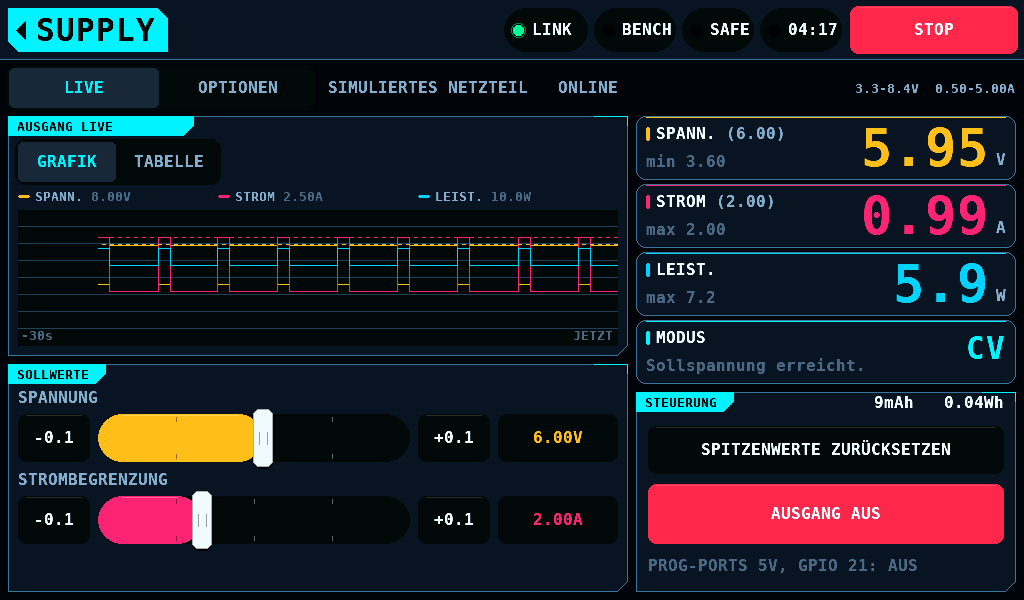
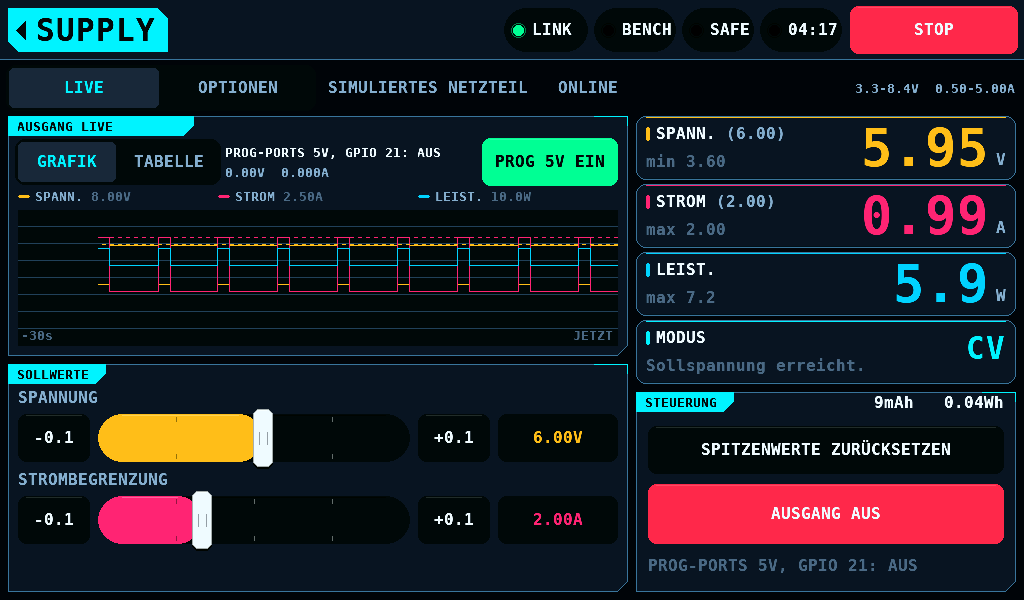
Document the PROG 5V box and test its rules at the edges
Safety, Carrier, Screens and the help pages in EN and DE describe the box,
its alerts and the SAFE or ARMED rule it shares with OUTPUT ON. Renders
SERVO and the KST programmer on the carrier. A tap released after a port
took the supply asks nothing.

Changed region(s): [[0.4688, 0.21, 0.625, 0.33], [0.2188, 0.24, 0.4375, 0.3]]

diff --git a/shared/ui/prog5v_box.c b/shared/ui/prog5v_box.c
@@ -24,9 +24,9 @@ static atomic_uint s_state = ATOMIC_VAR_INIT((unsigned)PROG5V_HELD_NONE);
 /** @brief bit 31 a reading, mV in bits 16 to 30, mA as int16 in 0 to 15. */
 static atomic_uint s_read;
 
-/** @brief What the boxes asked and not yet polled, and who switched the
- *         supply on.  app_main only. */
+/** @brief What the boxes asked and not yet polled.  app_main only. */
 static prog5v_cmd_t s_cmd;
+/** @brief The screen whose box switched the supply on.  app_main only. */
 static prog5v_by_t  s_owner;
 
 void prog5v_box_publish(uint8_t state, uint8_t pin, uint8_t held_port)
@@ -136,11 +136,11 @@ void prog5v_box_release(prog5v_box_t *b, int x, int y, bool tap)
     if (b == NULL || !b->pressed) {
         return;
     }
-    const bool fired = ui_hold_end(&b->hold);
+    (void)ui_hold_end(&b->hold);
     /* Off is a tap; on is a hold that has sent its command by the time the
-     * finger lifts.  Which one is the press's: an ON reported during a
-     * hold does not make its release an OFF. */
-    if (tap && b->press_on && prog5v_box_on() && !fired
+     * finger lifts.  Which one is the press's (press_on): an ON reported
+     * during a hold does not make its release an OFF. */
+    if (tap && b->press_on && prog5v_box_on()
         && held() == PROG5V_HELD_NONE
         && gfx_rect_contains(prog5v_box_button(b), x, y)) {
         post(false, b->by);

diff --git a/firmware/panel/main/panel.h b/firmware/panel/main/panel.h
@@ -926,8 +926,9 @@ typedef struct {
     /** And how many times the supply's output had been asked off; see
      *  s_supply_offs. */
     uint32_t         supply_offs;
-    /** And how many times the ports' 5V had been asked off (s_prog5v_offs):
-     *  an ON queued before an OFF is not applied after it. */
+    /** @brief And how many times the ports' 5V had been asked off
+     *  (s_prog5v_offs): an ON queued before an OFF is not applied after
+     *  it. */
     uint32_t         prog5v_offs;
     /** And how many edits the PD mini's wiring had had (s_pdmini_edits):
      *  an ON queued before an edit on SETUP is not applied after it, even
@@ -990,10 +991,11 @@ extern atomic_uint s_supply_ack;
 /** @brief The ports' 5V asked off from the PROG 5V box, counted; render
  *         side writes, control task reads. */
 extern atomic_uint s_prog5v_offs;
-/** @brief The PROG 5V ONs applied, numbered (control task), and the newest
- *         a whole frame has seen on (render side): see
+/** @brief The PROG 5V ONs applied, numbered; control task writes, see
  *         prog_supply_watch_service(). */
 extern atomic_uint s_psup_gen;
+/** @brief The newest PROG 5V ON a whole frame has seen on; render side
+ *         writes, see prog_supply_watch_service(). */
 extern atomic_uint s_psup_ack;
 extern atomic_bool s_supply_live;
 extern atomic_uint s_supply_ons_sent;

diff --git a/shared/ui/servo_screen_int.h b/shared/ui/servo_screen_int.h
@@ -482,12 +482,6 @@ typedef struct {
      * the output going off shows here at once.
      */
     gfx_rect_t out_btn;
-    /* The programming ports' own 5V on a board that switches it (the
-     * rbmod carrier): the PROG 5V box in the power plot's place
-     * (prog5v_box.h), one contact at a time. */
-    prog5v_box_t p5;
-    bool         p5_down;
-    int          p5_id;
     ui_hold_t  out_hold;
     bool       out_down;
     int        out_id;
@@ -496,6 +490,14 @@ typedef struct {
     float      sup_v, sup_i;  /**< the set points as last seen           */
     uint32_t   sup_rev;
     uint32_t   drawn_sup[2];
+    /** @brief The programming ports' own 5V on a board that switches it
+     *  (the rbmod carrier): the PROG 5V box in the power plot's place
+     *  (prog5v_box.h). */
+    prog5v_box_t p5;
+    /** @brief A contact is down on the box's button. */
+    bool         p5_down;
+    /** @brief That contact's id: one contact at a time. */
+    int          p5_id;
     /* A set point waiting for APPLY: typed while the output is live, or a
      * voltage raised past a standard servo's rating (hv), which takes the
      * two-second hold the profile warning takes.  OUTPUT ON with a set

diff --git a/test/host/test_prog5v_box.c b/test/host/test_prog5v_box.c
@@ -142,6 +142,13 @@ TEST_CASE(off_is_a_tap_that_lifts_on_the_button)
     CHECK(prog5v_box_press(&b));
     prog5v_box_release(&b, bx(), by_(), false);
     CHECK(!prog5v_box_poll_cmd(NULL));
+    /* A port that took the supply after the last tick: the tap asks
+     * nothing, the session's own LEAVE switches it. */
+    CHECK(prog5v_box_press(&b));
+    prog5v_box_publish(ST_ON, 21u, 1u);
+    prog5v_box_release(&b, bx(), by_(), true);
+    CHECK(!prog5v_box_poll_cmd(NULL));
+    prog5v_box_publish(ST_ON, 21u, (uint8_t)PROG5V_HELD_NONE);
     /* An OFF asked stands over an ON in the same poll. */
     CHECK(prog5v_box_press(&b));
     prog5v_box_release(&b, bx(), by_(), true);

diff --git a/firmware/panel/main/main.c b/firmware/panel/main/main.c
@@ -391,10 +391,12 @@ atomic_uint s_supply_trip_ms;
  * supply_watch_service().
  */
 atomic_uint s_supply_ack;
-/* The PROG 5V box's OFFs, counted as s_supply_offs counts the supply's,
- * and its ONs acknowledged as s_supply_ack does (panel.h). */
+/** @brief The PROG 5V box's OFFs, counted as s_supply_offs counts the
+ *         supply's (panel.h). */
 atomic_uint s_prog5v_offs;
+/** @brief The PROG 5V ONs applied, numbered (panel.h). */
 atomic_uint s_psup_gen;
+/** @brief The newest PROG 5V ON a whole frame has seen on (panel.h). */
 atomic_uint s_psup_ack;
 /*
  * Whether the output is on, stored by the control task the moment it

diff --git a/shared/ui/supply_screen_int.h b/shared/ui/supply_screen_int.h
@@ -143,7 +143,9 @@ _Static_assert(OUT_H >= UI_TAP_MIN, "OUTPUT is a finger tall");
  *        head, ending where the legend starts.
  */
 #define P5_X      (TAB_X + TAB_W + 8)
+/** @brief The box's top: PROG5V_BOX_H over the legend. */
 #define P5_Y      (LEG_Y - PROG5V_BOX_H)
+/** @brief The box's width, up to the card's inner edge. */
 #define P5_W      (LEFT_X + LEFT_W - INNER - P5_X)
 _Static_assert(P5_W >= PROG5V_BOX_MIN_W, "the PROG 5V box fits the head");
 _Static_assert(P5_Y >= UP_Y + TITLE_H, "the PROG 5V box is under the title");

diff --git a/firmware/panel/main/panel_supply.c b/firmware/panel/main/panel_supply.c
@@ -108,8 +108,8 @@ uint32_t              s_supply_step_ms;
  */
 static arm_watch_t    s_supply_watch;
 uint32_t              s_supply_gen;
-/* The PROG 5V box's ON in flight, watched the same way (s_psup_gen,
- * s_psup_ack). */
+/** @brief The PROG 5V box's ON in flight, watched the same way (s_psup_gen,
+ *         s_psup_ack). */
 static arm_watch_t    s_psup_watch;
 
 /*

diff --git a/STATUS.md b/STATUS.md
@@ -124,7 +124,7 @@ is taken in a gap ahead of the save that needs it.
 | CAN drivers (TWAI on the panel, XL2515 on the IOmcu) and the echo self-test | built |
 | Bring-up diagnosis, both ends' counters compared | built |
 | Heartbeat generator and monitor | built and driven at both ends; the monostable is not fitted |
-| Errors | built: an error switches every output off and the bench to SAFE ([Safety, Errors](docs/Safety.md#errors)). The rule is `shared/safety/error_stop.c`, host-tested in `test_error_stop`; the supply link's errors are `supply_link_ev_error()`, an INA3221 limit passed `sense_limit_link_take_trip()` (`test_sense_limit_link`); a programming session's faults `kst_link_outcome_fault()` and `hitec_prog_ses_fault()`, and the OFF written whatever the panel reads (`supply_link_cut()`), in `test_error_stop`; from link 4.31 the IOmcu holds the OFF of a supply a programming port holds for the port's write, 10000ms at most, and refuses the port's ON after it ([Safety, A programming port's supply](docs/Safety.md#a-programming-ports-supply); `test_supply_hold`, `test_prog_supply`, `test_prog_supply_link`, `test_kst_port_cut`, `test_hitec_port_cut`); the automatic test's and the limit run's error ends ask SAFE (`servo_test_abort_error()`, `servo_limrun_why_error()`; `test_servo_error_safe`, `test_servo_limrun_error`). The panel's error sites in `panel_supply.c`, `panel_limit.c`, `panel_log.c` and `panel_services.c` apply the rule through `shared/safety/error_sites.c` and `kst_link_faults()`, host-tested in `test_error_sites` with each finder: DISARM for an ARMED bench or one on its way, the supply off and the OFF written to an IOmcu of 4.31, a PD mini a port holds left to the port by an older IOmcu through every error but the panel's trip, the module's protection and a sagging input (`error_sites_keeps()`; the hold is the SUPPLY page's `LINK_SP_PORT` as last read, `supply_link_port_holds()`, also in `test_supply_keep`, not a session with a port, with a port that takes or lets go of the supply between two reads; an ON the page refuses under a port's ON through `supply_link_keep()`, also in `test_supply_keep`), the model switched off whoever holds a port, a reading fault the port keeps acted on once while it stands, a failed final commit or close of the run log or the automatic test's CSV counted once a run (`error_card_close_edge()`), OUTPUT OFF and STOP TEST leaving the bench ARMED; the one-line calls into it in those files are not host-tested. The IOmcu switches a PD mini left on off before the rest of its start-up (`supply_boot_off()`; the rule `supply_page_boot_owed()` and `pdmini_hurry()` host-tested in `test_supply_boot` against a modelled module at each of the seven rates); the time on hardware is not measured |
+| Errors | built: an error switches every output off and the bench to SAFE ([Safety, Errors](docs/Safety.md#errors)). The rule is `shared/safety/error_stop.c`, host-tested in `test_error_stop`; the supply link's errors are `supply_link_ev_error()`, an INA3221 limit passed `sense_limit_link_take_trip()` (`test_sense_limit_link`); a programming session's faults `kst_link_outcome_fault()` and `hitec_prog_ses_fault()`, and the OFF written whatever the panel reads (`supply_link_cut()`), in `test_error_stop`; from link 4.31 the IOmcu holds the OFF of a supply a programming port holds for the port's write, 10000ms at most, and refuses the port's ON after it ([Safety, A programming port's supply](docs/Safety.md#a-programming-ports-supply); `test_supply_hold`, `test_prog_supply`, `test_prog_supply_link`, `test_prog5v_box`, `test_kst_port_cut`, `test_hitec_port_cut`); the automatic test's and the limit run's error ends ask SAFE (`servo_test_abort_error()`, `servo_limrun_why_error()`; `test_servo_error_safe`, `test_servo_limrun_error`). The panel's error sites in `panel_supply.c`, `panel_limit.c`, `panel_log.c` and `panel_services.c` apply the rule through `shared/safety/error_sites.c` and `kst_link_faults()`, host-tested in `test_error_sites` with each finder: DISARM for an ARMED bench or one on its way, the supply off and the OFF written to an IOmcu of 4.31, a PD mini a port holds left to the port by an older IOmcu through every error but the panel's trip, the module's protection and a sagging input (`error_sites_keeps()`; the hold is the SUPPLY page's `LINK_SP_PORT` as last read, `supply_link_port_holds()`, also in `test_supply_keep`, not a session with a port, with a port that takes or lets go of the supply between two reads; an ON the page refuses under a port's ON through `supply_link_keep()`, also in `test_supply_keep`), the model switched off whoever holds a port, a reading fault the port keeps acted on once while it stands, a failed final commit or close of the run log or the automatic test's CSV counted once a run (`error_card_close_edge()`), OUTPUT OFF and STOP TEST leaving the bench ARMED; the one-line calls into it in those files are not host-tested. The IOmcu switches a PD mini left on off before the rest of its start-up (`supply_boot_off()`; the rule `supply_page_boot_owed()` and `pdmini_hurry()` host-tested in `test_supply_boot` against a modelled module at each of the seven rates); the time on hardware is not measured |
 | IOmcu firmware | answers the identity, status, control, bench and three output pages; fails safe at 200ms. The decision to switch to ARMED is `shared/safety/safety_gate.c`, called once a pass and at every CONTROL write and host-tested in `test_safety_gate` against a model of both main loops: an arm latch set at a start, on link silence, on a distrusted heartbeat and by a refused ARM, released by CLEAR alone. CHAN_CFG and OUTPUTS refuse a role, a throttle channel's range and a slot change while ARMED. It publishes what the ESC reports over extended DShot telemetry: speed, voltage, current, power and the ESC's own temperature. With an INA228 enabled on the SENSE page and answering, BENCH carries the INA228's voltage, current, power, peaks, charge and energy instead (see Current monitors). Core 0 runs the link and the outputs; core 1 runs the current monitors' bus and nothing else |
 | IOmcu firmware update over CAN | built and host-tested. The boot ROM's partition table holds slots A and B of 2036KiB; the panel writes the slot that is not running through UPDATE_CTL (0xF0) and UPDATE_DATA (0xF1) in 64-byte blocks with a CRC-16 each and a SHA-256 over the image, the IOmcu restarts into it on trial (TBYB, try before you buy), and the panel's BUY keeps it; without the BUY the boot ROM's 16.7s watchdog returns to the old image. The IOmcu refuses ARM for the whole session and writes flash only behind the store's gate. A session ends after 5s without a request to either update page, and a panel that finds one at its check ends it with ABORT. After the BUY the IOmcu erases the old slot's first sector, and owes the erase until it holds when it fails or the gate is shut. The panel carries the image when built with `RCBENCH_IOMCU_BIN`, checks the IOmcu's build by SHA-256 at link-up and offers the update on a question that takes the 2s hold. `test_link_update` runs both ends over the link layer against a simulated flash and boot ROM; `test_coproc_update_screen` the question and the progress; `test_upd_coproc` SETUP > UPDATES' IOmcu section, whose 2s hold starts the same update, also after a declined question. The transfer time is not measured; the bus time for the 0.18 image is 7.1 to 8.6s. An IOmcu loaded before the table takes one USB load of `rcbench-iomcu-install.uf2`. [Reference](docs/Link.md#firmware-update-over-the-link) |
 | Output drivers (PWM, PPM, DShot, bidirectional DShot) | built; the frame arithmetic, the group code, the reply sampler and the GPIO-to-PWM-slice fold are host-tested. No instrument has been on any output pin. [Reference](docs/DShot.md) |
@@ -223,10 +223,10 @@ build and so have no compile command; `tools/render_ui.py` builds the first
 with `-Werror`, and cppcheck reads both. The step over `firmware/` passes all 25. `docs.yml` and
 `release.yml` with the wait for CI have not run.
 
-The host suite is 360 binaries, one line per case: `test_gfx`, `test_gfx_faces`, `test_gfx_subpixel`, `test_gfx_clip`, `test_gfx_damage`, `test_gfx_turn`, `test_gfx_sprite`, `test_layout`, `test_touch_map`, `test_overlays`,
+The host suite is 361 binaries, one line per case: `test_gfx`, `test_gfx_faces`, `test_gfx_subpixel`, `test_gfx_clip`, `test_gfx_damage`, `test_gfx_turn`, `test_gfx_sprite`, `test_layout`, `test_touch_map`, `test_overlays`,
 `test_touch_merge`, `test_touch_merge_multi`, `test_inj_line_id`, `test_inj_emu`, `test_inj_multi`,
 `test_nav`, `test_nav_tiles`, `test_nav_alert`, `test_nav_mark`, `test_nav_contact`, `test_nav_drag`, `test_nav_stop`, `test_nav_bubble`, `test_widgets`, `test_workbench`, `test_prog_registry`, `test_keypad`, `test_keypad_sign`, `test_keypad_rows_setup`, `test_keypad_rows_stick`, `test_keypad_rows_motor`, `test_keypad_rows_supply`, `test_keypad_rows_servo`, `test_keypad_rows_kst`, `test_pinlist`, `test_bench`, `test_supply`,
-`test_supply_screen`, `test_supply_screen_tasks`, `test_supply_screen_home`, `test_supply_screen_draw`, `test_supply_layout`, `test_pdmini`,
+`test_supply_screen`, `test_supply_screen_tasks`, `test_supply_screen_home`, `test_supply_screen_draw`, `test_supply_layout`, `test_prog5v_box`, `test_pdmini`,
 `test_motor`, `test_motor_draw`, `test_motor_throttle`, `test_motor_arm`, `test_motor_workbench`, `test_motor_program`, `test_motor_layout`, `test_value_state`, `test_servo`, `test_servo_knob`, `test_servo_drag`, `test_servo_repaint`, `test_frame_work`, `test_servo_dial_sweep`, `test_servo_letgo`, `test_servo_curve`, `test_servo_supply`, `test_servo_run`, `test_servo_target`, `test_servo_rail`, `test_servo_meter`, `test_servo_settings`, `test_servo_trim_keypad`,
 `test_servo_test_panel`, `test_servo_error_safe`, `test_servo_limit_panel`, `test_servo_workbench`, `test_servo_arm`, `test_safe_press`,
 `test_analyser`, `test_prog_models`, `test_esc_stick_panel`, `test_esc_stick_panel_phases`, `test_esc_stick_panel_list`, `test_esc_stick_panel_steps`, `test_esc_stick_panel_makers`, `test_esc_stick_panel_hold`, `test_esc_stick_panel_touch`, `test_esc_stick_panel_home`, `test_esc_stick_panel_keypad`, `test_esc_stick_layout`, `test_balance`, `test_battery`, `test_instruments_layout`,
@@ -591,8 +591,8 @@ ctest runs one case more that is not a binary of the suite:
 Coverage floors: 94% overall, 85% for every file. `tools/coverage.py --check` fails on drift of the table
 below and of the figure in the two READMEs, and on a C file under `shared/`
 or a core file under `protocols/` that is in neither of its two lists, is not compiled, or has no counters.
-`render_ui.py --check` holds 666 committed screenshots to the current
-render, 333 in English and the same 333 in German, and `render_ui.py --fit`
+`render_ui.py --check` holds 670 committed screenshots to the current
+render, 335 in English and the same 335 in German, and `render_ui.py --fit`
 fails on a string that overflows where it is drawn, in either language,
 except an English overflow it lists as known (none listed). `image_slot.py`
 holds the panel image to the smaller of its two update slots.
@@ -936,7 +936,7 @@ _Generated by `tools/coverage.py`; CI runs `--check` and fails on drift._
 | The clock on the board | the NTP request and its console line are not measured on the board. The RTC timer counts the 32.768kHz crystal Y3; its drift is at most about 30ppm, measured over 65min. On the internal RC oscillator, the fallback, the drift is not a fixed figure: 584ppm over 2h04min in one run, under 15ppm over 1h51min in another. The boot line naming the crystal is not measured, nor the start-up time the crystal adds (about 183ms from ESP-IDF's counts); how long an answer takes is not measured beyond one bench log, 7.2s after the address. A cell in the board's RTC battery holder BAT1 keeps no time: the ESP32-P4 keeps its RTC timer on VBAT only from deep sleep, which the panel never enters |
 | Settings save disturbs the picture | `settings_save()` writes NVS while the panel scans. The scan-out reads PSRAM by DMA (direct memory access) with no bounce buffer, and the DSI host's interrupt runs during the write (`CONFIG_LCD_DSI_ISR_CACHE_SAFE`), so the picture is expected to stay; not measured | a photo of the home screen after a settings save and after a board drawing's keep, with the console's lines beside it |
 | Stick programming's beep timing | the engine, ESC STICK on MOTOR & ESC > PROGRAM and the simulated ESC are tested on the host only. No ESC's menu has been recorded, so the beep and gap lengths, the long beep, the gap between groups, the idle current and the current a beep adds are defaults chosen to be plausible, and the simulated ESC sounds numbers made up to match them. The PD mini is read 100 to 150ms apart at the panel, and whether its current is an instant reading or an average is not known: a beep shorter than about 200ms may not be seen. The ESC's tones after a selection are not decoded, so DONE does not say the ESC stored anything | one ESC of a profile the engine runs, on the PD mini with a resistor load, and once with a motor mounted solid without propeller: a recording of its menu's current at the fastest rate available, the module's read interval, and one run of each kind (two-stage, one-stage) checked afterwards with the ESC's program card |
-| The German interface | the tables, the fonts and the fit check are built and tested on the host, and the 333 German screenshots are rendered by the panel's code; An alert already on the band, and the title of a keypad or choice already open, keep the language they were raised in until replaced. | a beta tester's pass over every screen in German on a panel |
+| The German interface | the tables, the fonts and the fit check are built and tested on the host, and the 335 German screenshots are rendered by the panel's code; An alert already on the band, and the title of a keypad or choice already open, keep the language they were raised in until replaced. | a beta tester's pass over every screen in German on a panel |
 | Comment gaps of the existing tree | the comment rule ([CONTRIBUTING.md](CONTRIBUTING.md#comments)) holds new files, changed lines and the `@file` block of a changed file. The other gaps are listed: the Doxygen warnings in `tools/doc_check_baseline.txt`, the Python docstring codes per file in `ruff.toml`. A C file without a `@file` block is one line there, `file has no @file block`; Doxygen reports nothing inside such a file, so its other gaps are not listed until the block is added | documentation of the listed files |
 
 ## Constraints

diff --git a/docs/Safety-de.md b/docs/Safety-de.md
@@ -271,8 +271,9 @@ beenden die Sitzung selbst.
 Auf dem [rbmod-Carrier](Carrier-de.md#versorgung) laufen die
 Programmierports am 5V-Abwärtswandler M7, geschaltet über GPIO 21 (Link
 4.32, die Page PROG_SUPPLY). Der PD mini speist nur die Servoschienen. Die
-Programmer für KST und Hitec schalten die 5V für eine Sitzung ein und aus;
-das Panel bietet keine Taste dafür. Die Programmer lesen auf dem Carrier
+Programmer für KST und Hitec schalten die 5V für eine Sitzung ein und aus,
+und das Feld PROG 5V auf SERVO und SUPPLY schaltet sie von Hand
+([unten](#das-feld-prog-5v)). Die Programmer lesen auf dem Carrier
 nichts vom PD mini: sein Sollwert lehnt weder ein VERBINDEN unter 4.8V
 ab, noch setzt er die Spannung eines Power-Cycle, und die Grenzen der
 Ansicht SUPPLY begrenzen nur die Servoschienen, kein VERBINDEN. Sind die
@@ -303,11 +304,32 @@ der Page SUPPLY für einen Port:
   nicht gelesen wurden oder ein Port eines Programmers sie hält, so wie sie
   auf den Ausgang des PD mini warten (`prog_supply_link_live()`).
 
+##### Das Feld PROG 5V
+
+Das Feld PROG 5V auf SERVO und SUPPLY schaltet die 5V von Hand: PROG 5V
+EIN ist ein Halten von 2s, PROG 5V AUS ein Tipp. Das Panel beurteilt das ON,
+wie es AUSGANG EIN des PD mini beurteilt:
+
+- Es gilt bei SAFE und bei ARMED; ein Wechsel nach ARMED wird nicht verlangt.
+- Es verfällt, wenn nach dem vollendeten Halten ein STOP, ein AUS oder ein
+  Touch-Verlust kam, und solange ein Port die 5V hält.
+- Es wird einmal als OUTPUT 1 geschrieben und nicht wiederholt. Der IOmcu
+  lehnt es ohne lebenden Heartbeat ab (NOT_ARMED) und solange ein Port die
+  5V hält (BAD_VALUE); beides und keine Antwort melden eine Warnung
+  ([Carrier, Versorgung](Carrier-de.md#versorgung)).
+- Ein ON über verlorene Touch-Ereignisse hinweg ist ein Fehler: SAFE, die
+  5V aus.
+- Ein Fehler, PROG 5V AUS und das Verlassen der Ansicht, deren Feld sie
+  eingeschaltet hat, schreiben OFF. Ein Fehler verwirft ein noch nicht
+  geschriebenes ON.
+- Solange ein Port die 5V hält, nimmt das Feld keinen Druck an.
+
 SUPPLY zeigt ihren Zustand unter OUTPUT: `PROG-PORTS 5V, GPIO 21: EIN`,
 `AUS` oder `UNBEKANNT`, wenn das letzte Lesen ohne Antwort blieb. Der
 Kern ist `shared/outputs/prog_supply.c` unter `test_prog_supply`; das Ende
 des Panels ist `shared/bench/prog_supply_link.c` unter
-`test_prog_supply_link`.
+`test_prog_supply_link`, das Feld `shared/ui/prog5v_box.c` unter
+`test_prog5v_box`.
 
 Aktuelle Einschränkungen:
 

diff --git a/docs/Screens-de.md b/docs/Screens-de.md
@@ -1247,6 +1247,26 @@ des Servotesters überwacht
 
 ![Das Modell des Panels als Netzteil](img/de/servo-model.png)
 
+Auf dem [rbmod-Carrier](Carrier-de.md#versorgung) nimmt das Feld PROG 5V
+den Platz der Grafik unter der Messzeile ein, 48px hoch: die eigenen 5V
+der Programmierports. Seine erste Zeile nennt Pin und Zustand,
+`PROG-PORTS 5V, GPIO 21: AUS`; seine zweite das letzte Fenster von 50ms des
+INA3221-Kanals, der die 5V misst (0x40 CH3), `5.02V  0.120A`, oder
+`--V  --A` ohne eines. PROG 5V EIN rechts ist ein Halten von 2s und
+PROG 5V AUS ein Tipp, wie AUSGANG EIN und AUS, bei SAFE und bei ARMED.
+Solange ein Programmierport die 5V hält, lautet die zweite Zeile
+`BELEGT VON PROG-PORT n`, die Taste ist gedimmt, und ein Druck darauf zeigt
+`PROG-Ports 5V: von einem Programmierport belegt oder nicht gelesen.` Das
+Feld bleibt unter den Programmern für KST und Hitec. Das Verlassen von
+SERVO schaltet 5V ab, die das Feld auf SERVO eingeschaltet hat, außer ein
+Port hält sie. Mit dem Modell als Netzteil steht die Pille SIMULIERT unter
+dem Feld. SUPPLY zeigt dasselbe Feld ([Netzteil](#netzteil)); die Regeln
+stehen in [Sicherheit, Das Feld PROG 5V](Safety-de.md#das-feld-prog-5v).
+
+![SERVO auf dem Carrier](img/de/servo-rbmod.png)
+
+![Der KST-Programmer hält die 5V](img/de/servo-kst-rbmod.png)
+
 Welches Messgerät es ist, wird einmal je Poll entschieden
 ([die Strommonitore](#interfaces-die-strommonitore)): der INA3221 1000ms,
 nachdem seine Bedingungen gelten, der PD mini ab dem ersten Poll, in dem
@@ -2152,8 +2172,12 @@ Auf dem [rbmod-Carrier](Carrier-de.md#versorgung) nennt eine Zeile unter
 AUSGANG die eigenen 5V der Programmierports: `PROG-PORTS 5V, GPIO 21: EIN`,
 `AUS` oder `UNBEKANNT` nach einem Lesen ohne Antwort, in der
 Akzentfarbe, solange sie an sind. Die Programmer für KST und Hitec schalten
-sie; SUPPLY hat keine Taste dafür. Ein Board ohne den Schalter zeigt keine
-Zeile.
+sie. Auf LIVE schaltet das Feld PROG 5V im Kopf der Ausgangskarte, rechts
+von GRAFIK und TABELLE, sie von Hand und zeigt ihren INA3221-Messwert, wie
+auf [SERVO](#servo); die Zeile unter AUSGANG bleibt auf jedem Reiter. Das
+Verlassen von SUPPLY schaltet 5V ab, die das Feld auf SUPPLY eingeschaltet
+hat, außer ein Port hält sie. Ein Board ohne den Schalter zeigt keins von
+beiden.
 
 ![SUPPLY auf dem Carrier](img/de/supply-rbmod.png)
 

diff --git a/docs/Carrier-de.md b/docs/Carrier-de.md
@@ -72,9 +72,23 @@ zeigt `PROGRAMMIERSPANNUNG: 5V FEST, GPIO 21` und bietet weder Spannung
 noch Strom an.
 
 Die Programmer für KST und Hitec schalten GPIO 21 für eine Sitzung ein und
-aus, über die Page PROG_SUPPLY (Link 4.32). Das Panel hat keine Taste
-dafür. SUPPLY zeigt den Zustand unter OUTPUT:
-`PROG-PORTS 5V, GPIO 21: EIN` oder `AUS`. Jeder Fehler, ein verlorener
+aus, über die Page PROG_SUPPLY (Link 4.32). Das Feld PROG 5V auf der
+Ausgangskarte von SERVO und auf LIVE von SUPPLY schaltet sie von Hand:
+PROG 5V EIN ist ein Halten von 2s, PROG 5V AUS ein Tipp, bei SAFE und bei
+ARMED, wie AUSGANG EIN des PD mini. Das Feld nennt den Pin,
+`PROG-PORTS 5V, GPIO 21: AUS`, und zeigt das letzte Fenster von 50ms an
+0x40 CH3, `5.02V  0.120A` ([Der Strommonitor](#der-strommonitor)). Solange
+die Sitzung eines Programmers die 5V hält, nimmt das Feld keinen Druck an
+und zeigt `BELEGT VON PROG-PORT n`. SUPPLY zeigt den Zustand auch unter
+OUTPUT: `PROG-PORTS 5V, GPIO 21: EIN` oder `AUS`.
+
+| Ein ON, das nicht greift | Warnung |
+| --- | --- |
+| kein lebender Heartbeat (NOT_ARMED) | `PROG-Ports 5V nicht eingeschaltet: der IOmcu hat keinen Heartbeat.` |
+| ein Port hält die 5V (BAD_VALUE) | `PROG-Ports 5V nicht eingeschaltet: ein Programmierport belegt sie.` |
+| keine Antwort | `PROG-Ports 5V EIN nicht beantwortet. Verbindung prüfen.` |
+| über verlorene Touch-Ereignisse hinweg; der Prüfstand geht auf SAFE | `Touch-Signal beim Einschalten verloren. PROG-Ports 5V aus.` |
+| ein Druck, solange ein Port die 5V hält oder die Page UNBEKANNT liest | `PROG-Ports 5V: von einem Programmierport belegt oder nicht gelesen.` | Jeder Fehler, ein verlorener
 Heartbeat und ein stummer Link schalten sie aus; ein Schreiben in den
 Speicher des Servos hält sie an, bis es endet, höchstens 10000ms
 ([Sicherheit, Die 5V der Programmierports auf dem Carrier](Safety-de.md#die-5v-der-programmierports-auf-dem-carrier)).
@@ -84,6 +98,10 @@ der IOmcu GPIO 21 nicht treibt (im Reset, im BOOTSEL, ohne Versorgung),
 hält der Pull-down an EN M7 aus.
 
 ![SUPPLY auf dem Carrier](img/de/supply-rbmod.png)
+
+![SERVO auf dem Carrier, das Feld PROG 5V unter PD MINI](img/de/servo-rbmod.png)
+
+![Der KST-Programmer hält die 5V](img/de/servo-kst-rbmod.png)
 
 ## Der Strommonitor
 

diff --git a/docs/Screens.md b/docs/Screens.md
@@ -1139,6 +1139,25 @@ channel is CH1 of the one part SENSE reads.
 
 ![The panel's model as the supply](img/servo-model.png)
 
+On the [rbmod carrier](Carrier.md#power) the PROG 5V box takes the plot's
+place under the line, 48px tall: the programming ports' own 5V. Its first
+line names the pin and the state, `PROG PORTS 5V, GPIO 21: OFF`; its second
+the last 50ms window of the INA3221 channel watching the 5V (0x40 CH3),
+`5.02V  0.120A`, or `--V  --A` without one. PROG 5V ON on its right is a 2s
+hold and PROG 5V OFF a tap, as OUTPUT ON and OFF are, with the bench SAFE
+or ARMED. While a programming port holds the 5V the second line reads
+`HELD BY PROG PORT n`, the button is dimmed, and a press on it shows
+`PROG ports 5V: held by a programming port, or not read.` The box stays
+under the KST and Hitec programmers. Leaving SERVO switches off a 5V
+SERVO's box switched on, unless a port holds it. With the model as the
+supply the SIMULATED pill sits under the box. SUPPLY shows the same box
+([Supply](#supply)); the rules are in
+[Safety, The PROG 5V box](Safety.md#the-prog-5v-box).
+
+![SERVO on the carrier](img/servo-rbmod.png)
+
+![The KST programmer holding the 5V](img/servo-kst-rbmod.png)
+
 Which meter it is is decided once per poll
 ([the current monitors](#interfaces-the-current-monitors)): the INA3221
 1000ms after its conditions hold, the PD mini from the first poll in which
@@ -1960,8 +1979,11 @@ second finger does nothing anywhere on the screen.
 On the [rbmod carrier](Carrier.md#power) a line under OUTPUT names the
 programming ports' own 5V: `PROG PORTS 5V, GPIO 21: ON`, `OFF`, or
 `NOT READ` after an unanswered read, in the accent colour while on. The KST
-and Hitec programmers switch it; SUPPLY has no key for it. A board without
-the switch shows no line.
+and Hitec programmers switch it. On LIVE the PROG 5V box in the output
+card's head, right of PLOT and TABLE, switches it by hand and shows its
+INA3221 reading, as on [SERVO](#servo); the line under OUTPUT stays on
+every task. Leaving SUPPLY switches off a 5V SUPPLY's box switched on,
+unless a port holds it. A board without the switch shows neither.
 
 ![SUPPLY on the carrier](img/supply-rbmod.png)
 
